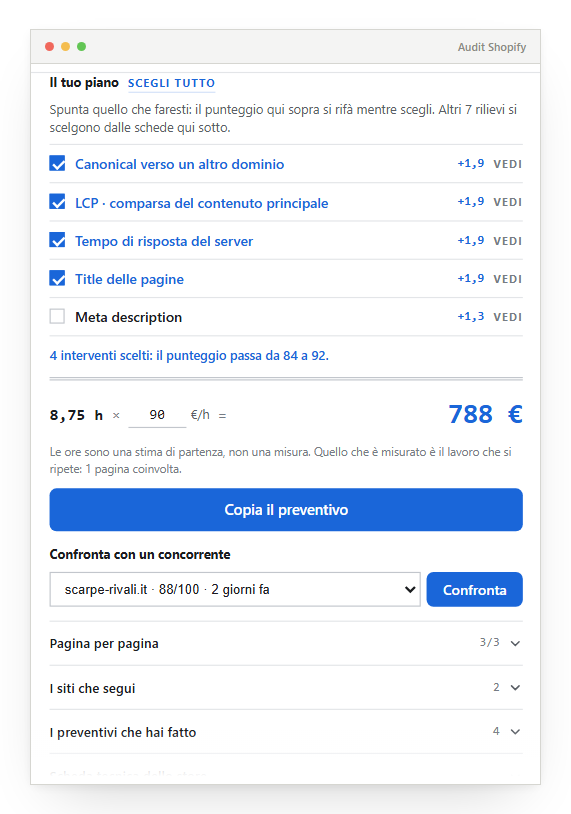
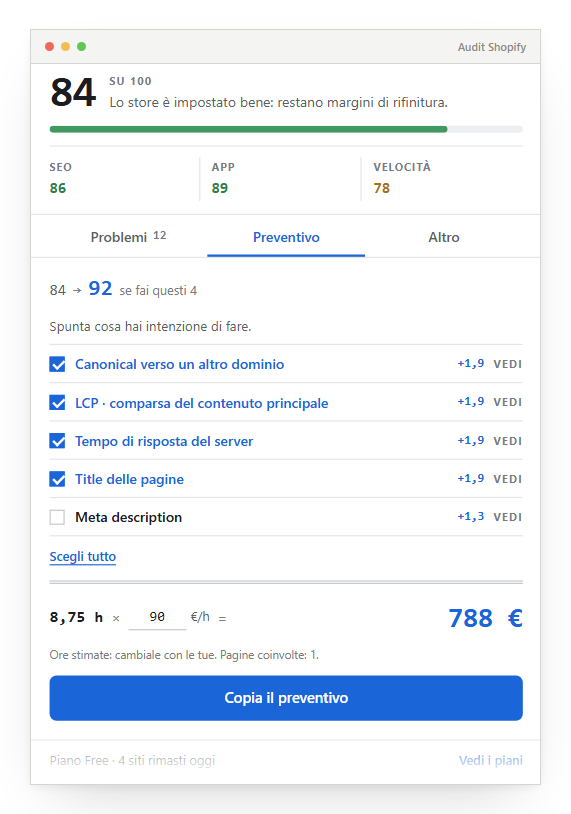
Schermate rifatte sul popup a schede
La figura che mostrava la striscia dei controlli diventa la scheda Problemi
con un rilievo aperto: il dato misurato, perche' conta e cosa fare. La
striscia non esiste piu', e una pagina che promette una cosa che il prodotto
non fa e' la peggior bugia possibile in una vetrina.

diff --git a/index.html b/index.html
@@ -651,11 +651,11 @@
 
     <figure class="schermata">
       <picture>
-        <source srcset="immagini/popup-simulazione-scuro.png" media="(prefers-color-scheme: dark)">
-        <img src="immagini/popup-simulazione.png" width="571" height="814" loading="lazy"
-             alt="Il punteggio in cima al popup: 84 oggi, freccia, 90 se li fai. Sotto, la striscia dei controlli e i tre voti per area.">
+        <source srcset="immagini/popup-rilievi-scuro.png" media="(prefers-color-scheme: dark)">
+        <img src="immagini/popup-rilievi.png" width="571" height="814" loading="lazy"
+             alt="La scheda Problemi del popup: il punteggio 84 su 100 con la barra, i tre voti per area e l'elenco dei rilievi, il primo aperto con la prova misurata e il rimedio.">
       </picture>
-      <figcaption>Tre interventi spuntati e il punteggio si rif&agrave;: <strong>84&nbsp;&rarr;&nbsp;90</strong>. Non una stima &mdash; lo stesso calcolo, con quei controlli dati per superati.</figcaption>
+      <figcaption>Ogni rilievo porta <strong>il dato misurato</strong> su quella pagina, perch&eacute; conta e cosa fare. Niente voti senza una prova sotto.</figcaption>
     </figure>
   </div>
 </section>
